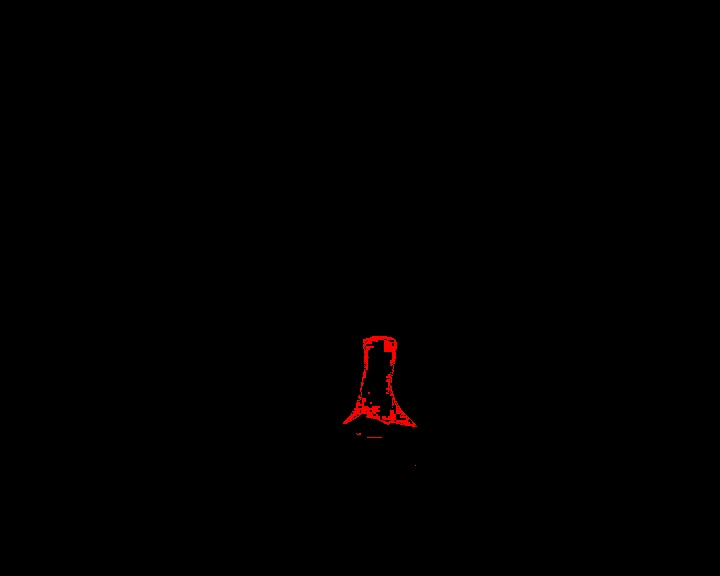
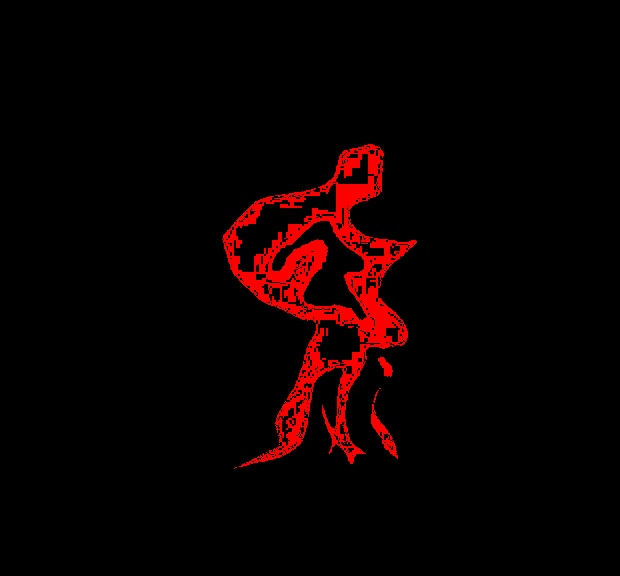
end

Changed region(s): [[0.3371, 0.25, 0.6742, 0.8125]]

diff --git a/VideoProecessing/FlameBoundingbox.py b/VideoProecessing/FlameBoundingbox.py
@@ -10,7 +10,7 @@ import matplotlib.image as mpimg
 # get_ipython().magic(u'matplotlib inline')
 # REFERENCE: https://github.com/benjamincastillo2020/FireDetectionCode
 
-cap1 = cv2.VideoCapture('../Videos/6cm_test.mp4')
+cap1 = cv2.VideoCapture('../Videos/LabFire_1.mp4')
 fgbg = cv2.createBackgroundSubtractorMOG2()
 # serport = serial.Serial("COM1", 115200)
 
